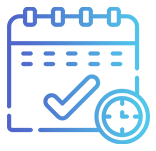
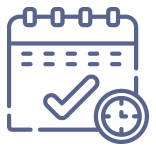
FEAT: ScrollToRef

diff --git a/src/components/sections/footer.js b/src/components/sections/footer.js
@@ -1,4 +1,5 @@
 import React from 'react'
+import ScrollToRef from "../scroll/ScrollToRef";
 
 
 // Assets
@@ -23,7 +24,7 @@ const Footer = () => {
 
   const menuLinks = data.site.siteMetadata.menuLinks.map((link, index) => (
       <li key={`${index}-link.name`}>
-        <a href={link.link}>
+        <a href={link.link} onClick={(e) => ScrollToRef(e, link.link)}>
           {link.name}
         </a>
       </li>
@@ -32,7 +33,7 @@ const Footer = () => {
   return (
     <footer>
       <div className={'container'}>
-        <button className={'footer__return-to-top'}>return</button>
+        <button className={'footer__return-to-top'} onClick={(e) => ScrollToRef(e,'header')}>return</button>
         <img className={'footer__logo'} src={Logo} alt="Etnt" />
 
         <ul className={'footer__nav'}>
@@ -45,10 +46,10 @@ const Footer = () => {
 
         <ul className={'social'}>
           <li className={'social__el social__el--fb'}>
-            <a href="#">Facebook</a>
+            <a href="#" target={"_BLANK"}>Facebook</a>
           </li>
           <li className={'social__el social__el--in'}>
-            <a href="#">Linkedin</a>
+            <a href="https://www.linkedin.com/company/etnt/" target={"_BLANK"}>Linkedin</a>
           </li>
         </ul>
       </div>

diff --git a/src/components/sections/digit.js b/src/components/sections/digit.js
@@ -6,6 +6,7 @@ import Drawers from '../../images/digits/drawers.svg'
 import House from '../../images/digits/house.svg'
 import Partners from '../../images/digits/partners.svg'
 import Studies from '../../images/digits/studies.svg'
+import Times from '../../images/digits/time.svg'
 
 const Digit = () => {
 
@@ -14,7 +15,7 @@ const Digit = () => {
         {icon: House, digit:"+ 650 000", text: "Logements raccordés" },
         {icon: Partners, digit:12, text: "partenaires commerciaux" },
         {icon: Studies, digit:"+ 18 000", text: "études FTTH confiés" },
-        {icon: Studies, digit:8, text: "ans d’expériences" },
+        {icon: Times, digit:8, text: "ans d’expériences" },
     ]
 
     const digits = data.map((el, index)=> {

diff --git a/src/components/nav.js b/src/components/nav.js
@@ -3,6 +3,7 @@ import Logo from "../images/logo.svg"
 import { useStaticQuery, graphql } from "gatsby"
 import Burger from '@animated-burgers/burger-slip'
 import '@animated-burgers/burger-slip/dist/styles.css'
+import ScrollToRef from "./scroll/ScrollToRef";
 
 const Nav = () => {
     const [isOpen, setIsOpen] = useState(false)
@@ -21,7 +22,10 @@ const Nav = () => {
 
   const menuLinks = data.site.siteMetadata.menuLinks.map((link, index) => (
     <li className={'nav__el'} key={`${index}-link.name`}>
-      <a href={link.link} onClick={() => setIsOpen(!isOpen)}>
+      <a href={link.link} onClick={(e) => {
+          setIsOpen(!isOpen)
+          ScrollToRef(e, link.link)
+      }}>
         {link.name}
       </a>
     </li>

diff --git a/src/components/scroll/ScrollToRef.js b/src/components/scroll/ScrollToRef.js
@@ -1,0 +1,12 @@
+import gsap from 'gsap'
+import ScrollToPlugin from "gsap/ScrollToPlugin";
+
+gsap.registerPlugin(ScrollToPlugin)
+
+const ScrollToRef = (event, ref) => {
+    console.log(event)
+    event.preventDefault()
+    gsap.to(window, {duration: 2, scrollTo:ref})
+}
+
+export default ScrollToRef ;

diff --git a/src/components/scroll/scroll.js b/src/components/scroll/scroll.js
@@ -1,10 +1,10 @@
 import React from 'react'
+import ScrollToRef from "./ScrollToRef";
 
 const Scroll = () => {
 
-
   return (
-    <div className="scroll">
+    <div className="scroll" onClick={(e) => ScrollToRef(e,'#presentation')}>
 
     </div>
   )

diff --git a/src/scss/modules/_services.scss b/src/scss/modules/_services.scss
@@ -30,7 +30,7 @@
   margin-bottom: space(1);
   background: #fff;
   position: relative;
-  box-shadow: 0 10px 10px -10px rgba(0, 0, 0, 0.2);
+  border-bottom: 1px solid rgba(#08295F, .25);
 }
 
 .children__el:last-child{

diff --git a/src/components/header.js b/src/components/header.js
@@ -4,6 +4,8 @@ import Nav from "./nav"
 import Scroll from "./scroll/scroll";
 import Bgmp4 from "../videos/bg.mp4";
 
+
+
 const Header = ({ siteTitle }) => {
 
   return (
